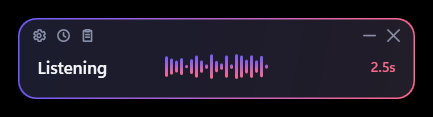
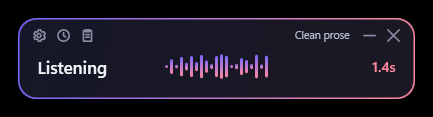
Bring every document up to what the code actually does
A sweep rather than a feature: the docs had drifted again, and one drift was my own fault.

The architecture document's seam table still described a hotkey that only held, a cleaner with no
phrase book, a history that could only be appended to, and six settings pages. Those rows were edited
in an earlier pass whose script aborted on a failed assertion before writing the file, so the edit was
reported as done and never landed. They are correct now, and IFocusProbe - which by then did two quite
different jobs - has a row of its own.

Its roadmap listed the installer, auto-update, auto-start and "remember this replacement" as still to
do. All four shipped. What is actually open is led by the two review findings that are still open and
user-visible, and says why each matters rather than only naming it.

The handoff's state section was a list of what existed in the first week. It now describes the app as
it is - session-scoped pipeline, local-first post-processing, modes, caret-aware delivery, recovery,
history as a correction tool - and leads with the fact that none of it is in an installed copy, which
is the single most useful thing for the next person to know. Its repo map had drifted furthest: half
the Core files it lists did not exist when it was written, and the ones that did are now organised by
folder.

Screenshots regenerated. All four were taken before the rebrand, so the README showed an app with the
[…]

diff --git a/docs/HANDOFF.md b/docs/HANDOFF.md
@@ -7,59 +7,82 @@ feature passes. Read this first; then `README.md` for usage, `docs/ARCHITECTURE.
 
 ## What this is
 
-Push-to-talk dictation for Windows, a Wispr Flow clone. Hold Right Ctrl, speak, release; the cleaned-up
-text is typed into whatever has focus. Everything runs locally. There is no cloud, account, or telemetry.
+**TawkType — you talk, it types.** Local voice typing for Windows, modelled on Wispr Flow. Hold Right
+Ctrl, speak, release; the text is typed into whatever has focus. Speech recognition runs on the
+machine. There is no account and no telemetry, and the only thing that ever leaves the computer is the
+optional Claude rewrite, which is off until someone turns it on and supplies a key.
 
-Owner: Jupitor Studio. Working name was **Murmur**, then **Talk2Me**; it is now **TawkType**, because Talk2Me turned out to be another dictation product. The rename is display-only — see the rename notes below.
+Owner: Jupitor Studio. Home: [tawktype.com](https://tawktype.com). Working name was **Murmur**, then
+**Talk2Me**; it is now **TawkType**, because Talk2Me turned out to be another dictation product. The
+rename is display-only — see "The rename" below for the six identifiers that still say Talk2Me on
+purpose.
 
 ## State of the code
 
-- **Branch `main`, clean tree.** Last release tag `v0.2.9`; several commits past it, so the next pack
-  is overdue.
-- **Builds clean** with `dotnet build`, **326 unit tests pass** with `dotnet test`.
+- **Branch `main`, clean tree.** Last release tag `v0.2.9`, and a long way past it: everything below
+  is in no installed copy. **Cutting a release is the most overdue thing in this repository.**
+- **Builds clean** with `dotnet build`, **326 unit tests pass** with `dotnet test` in about two seconds.
 - **Works end to end on real hardware.** The owner's own mic test: 3.2 s of speech → typed in 215 ms
-  with Parakeet. Overlay, tray, settings, model download, model deletion are all verified in the running
-  app.
-- **LLM cleanup is in**, off by default: `LlmTextCleaner` runs the regex cleaner, then optionally a
-  Claude rewrite under a 2 s timeout, falling back to the regex text on anything that goes wrong. Unit
-  tested; the live path was verified only as far as a rejected key (see "Gotchas" 9).
+  with Parakeet. Overlay, tray, settings, model download and deletion are verified in the running app.
+- **Renamed to TawkType**, display-only — see "The rename" below for the six identifiers that
+  deliberately still say Talk2Me and what each costs if you change one.
+- **The whole pipeline is session-scoped**: a dictation can be cancelled with Esc, cannot be stamped
+  on by a later one, and shutdown drains rather than tearing up mid-write.
+- **Post-processing is local first.** `PhraseBook` applies the user's spellings, replacements and
+  snippets with no model involved, and again after a rewrite so Claude cannot undo them. Four
+  **modes** bundle the post-processing choices and a key cycles them; a mode can only ever *narrow*
+  the permission to use Claude, never grant it.
+- **Delivery knows where it is going.** The focus probe says whether text can land and re-checks at
+  delivery time; `CaretFit` reads the words either side of the caret and fixes the spacing and the
+  first letter's case. Anything unreadable behaves exactly as it did before either existed.
+- **Nothing is lost when delivery fails.** The words are announced before they are typed, so they
+  reach the history either way, and the **dictation box** holds them — editable, copyable, and able to
+  hand the foreground back to the window they were aimed at.
+- **History is a correction tool**, not just a log: search across what was typed and what was heard,
+  edit, re-run cleanup, delete one entry, and save a vocabulary replacement from a mistake.
+- **LLM cleanup is in**, off by default. Unit tested; the live path was verified only as far as a
+  rejected key (see "Gotchas" 9) — **nobody has yet seen a real rewrite**.
 - **The installed build's taskbar icon is fixed** as of 0.2.8, after a long hunt. The answer is in
   "Gotchas" 20, and it is not what anyone would guess.
-- **The review in `docs/REVIEW-2026-09-11.md` is partly addressed**, findings 1–5 and 7 — transcript
-  logging, history retention and deletion, hotkey suppression and parsing, delivery ordering, session
-  lifetime, focus revalidation. That doc carries a status note listing what is left; **finding 6
-  (clipboard restore) and finding 10 (the filler regex eating "um" in German and "ER" in English) are
-  both still open**, and 6 matters more now that multiline results always paste.
-- **Personalisation landed locally**: `PhraseBook` (spellings, replacements, snippets), Esc to cancel,
-  an optional toggle key, optional sounds, and a recording limit.
+- **The review in `docs/REVIEW-2026-09-11.md` is mostly addressed.** Findings 1–5, 7, 8 and part of 11
+  are done. **Finding 6 (clipboard restore) and finding 10 (the filler regex) are still open**, and 6
+  matters more now that multiline results always paste. That doc carries a status note.
+- **`docs/FEATURE-RESEARCH-2026-09-11.md` §1–§7 are built**, except §5's per-application defaults,
+  which the section itself puts later. §8 (first run) and §9 (visible privacy) are untouched.
 
 ## Repo map
+
+The project and namespace names still say Talk2Me. That is deliberate — see "The rename" below.
 
 ```
 Talk2Me.sln
 src/Talk2Me.Core            pipeline state machine, interfaces, settings, regex cleaner, and the pure
-                            reducers that make the awkward parts testable: Hotkey, HotkeyGesture,
-                            Activation, Delivery, PhraseBook, NumberField, WindowPlacement  (no Windows deps)
-src/Talk2Me.Windows         WH_KEYBOARD_LL hook, WaveIn mic capture, SendInput + clipboard injection
+                            reducers that make the awkward parts testable, all free of Windows deps:
+                              Input/     Hotkey, HotkeyGesture, Activation (hold / toggle / Esc / mode)
+                              Text/      PhraseBook, CaretFit, CorrectionGuess, Delivery, BasicTextCleaner
+                              Settings/  DictationMode, VocabularyEdit, VocabularyFormat, NumberField
+                              History/   DictationHistoryStore, HistoryQuery, LastDictation
+                              Pipeline/  DictationEngine, Recovery
+src/Talk2Me.Windows         WH_KEYBOARD_LL hook, WaveIn mic capture, SendInput + clipboard injection,
+                            UiaFocusProbe (can text land here, and what is either side of the caret),
+                            Win32WindowActivator, DPAPI key store, Run-key startup, taskbar identity
 src/Talk2Me.Transcription   ParakeetTranscriber (sherpa-onnx), WhisperTranscriber (Whisper.net),
                             TranscriberRouter, model downloaders, ModelStorage
 src/Talk2Me.Llm             ClaudeLlmClient — the only project that references the Anthropic SDK
 src/Talk2Me.App             WPF tray app (namespace Talk2Me.Desktop): App.xaml has the palette + mark
-                            geometry; Views/ has OverlayWindow, SettingsWindow, HistoryWindow, BrandMark;
+                            geometry; Views/ has OverlayWindow, SettingsWindow, HistoryWindow,
+                            DictationBoxWindow, RememberWindow, TaskbarWindow, HotkeyBox, BrandMark;
                             Themes/ has Light.xaml, Dark.xaml and the templated Controls.xaml;
-                            Services/ has ModelMaintenance, ThemeManager and LegacyMigration;
-                            Logging/ has the file logger
+                            Services/ has ModelMaintenance, ThemeManager, UpdateService, SoundCues,
+                            LegacyMigration; Logging/ has the file logger
 tools/Talk2Me.Bench         transcribes a WAV with one or both engines, prints latency side by side
 tools/Talk2Me.Clean         runs a transcript through the LLM cleanup pass, prints the rewrite + latency
-tools/Talk2Me.Focus         prints what the focus probe makes of whatever window is in front
+tools/Talk2Me.Focus         what the focus probe makes of the front window, and the text around its caret
 tools/Talk2Me.Brand         renders talk2me.ico + logo PNGs from the vector mark (WPF, no external tools)
-tests/Talk2Me.Core.Tests    xUnit, 240 tests: DictationEngine + session lifetime, hotkey parsing and
-                            gesture, activation (hold / toggle / cancel), PhraseBook, VocabularyFormat,
-                            NumberField, Delivery, focus deflection, failed delivery, history store,
-                            BasicTextCleaner, EngineSelection, LlmTextCleaner, CleanupPrompt,
-                            ModelStorage, WindowPlacement, languages, stats, settings cloning
+tests/Talk2Me.Core.Tests    xUnit, 326 tests. One file per behaviour; the names are the specification.
 branding/                   BRAND.md, mark.svg, icon.svg, logo.svg, exports/
-docs/                       ARCHITECTURE.md, HANDOFF.md
+docs/                       ARCHITECTURE.md, HANDOFF.md, the two dated assessments, images/,
+                            tawktype-brand/ (the design package; untracked, see .gitignore)
 ```
 
 ## Run, build, test
@@ -110,7 +133,7 @@ On first run the app moves the old `%LOCALAPPDATA%\Murmur` folder here, so nothi
 | Whisper runtime order CUDA12 → Vulkan → CPU | No CUDA Toolkit installed, so Vulkan is what runs. Installing the toolkit flips to CUDA automatically. |
 | H.NotifyIcon.Wpf pinned to **2.3.2** | 2.4.x dropped net8.0 and silently resolves to the .NET Framework asset, which fails XAML compile. |
 | WaveIn at 16 kHz mono, not WASAPI | The driver resamples for free to exactly what both engines want. Swap for WASAPI only if latency or loopback becomes a need. |
-| Settings is a nav rail + pages, not one form | It had grown past 1400px with the expanders open and was genuinely hard to read. Seven pages (General / Transcription / Activation / Appearance / Vocabulary / AI cleanup / History) modelled on WhisperTyping, which the owner asked for by screenshot. |
+| Settings is a nav rail + pages, not one form | It had grown past 1400px with the expanders open and was genuinely hard to read. Eight pages (General / Transcription / Activation / Modes / Appearance / Vocabulary / AI cleanup / History) modelled on WhisperTyping, which the owner asked for by screenshot. |
 | Light default with a dark toggle, pill always dark | The owner picked light with a toggle. The pill is the exception on purpose: it floats over other applications, so it has to read against *their* content, not ours. Its brushes are `Overlay.*` in App.xaml and never swap. |
 | Controls are fully templated | WPF's stock ComboBox/CheckBox/Button chrome comes from system colours and looks wrong in dark. Templating them is the only way both themes are right. |
 | The pill rests on screen instead of hiding | It is the only feedback the user has, and it is useless if it is gone when they glance at it. Resting dimmed keeps it available without being loud. `Overlay.AlwaysVisible = false` restores hide-on-idle. |
@@ -239,7 +262,7 @@ px frames, and the mark drops its text cursor below 24 px rather than shrinking 
     sets `Overlay.AlwaysVisible = false` — it stops resting on screen but still appears while
     dictating, and is persisted. Minimise (`─`) sets `OverlayViewModel.IsHidden` — gone entirely,
     including during dictation, and deliberately *not* persisted, so a restart brings it back. While
-    minimised the only ways back are the tray icon (left click, or "Show status bar" on the menu) and
+    minimised the only ways back are the tray icon (left click, or "Show" on the menu) and
     turning Appearance → "Keep the pill on screen" from off to on.
 19. **Never let the installer's packId be `Talk2Me`.** Velopack installs to `%LOCALAPPDATA%\<packId>`
     and *clears that folder first*. Builds before the installer kept user data in
@@ -375,27 +398,31 @@ px frames, and the mark drops its text cursor below 24 px rather than shrinking 
 
 ## Roadmap, in the order I would do it
 
-1. **Close review findings 6 and 10.** Finding 6 is the clipboard: the restore races the paste, and only
-   text is put back, so an image or formatted content on the clipboard is destroyed by a dictation. That
-   got more likely, not less, when multiline results started always pasting. Finding 10 is the filler
-   regex — it deletes German "um" and English "ER", so *"The ER is open"* becomes *"The is open"*. Both
-   are small, both are user-visible, and both are already written up with reproductions.
-2. **Prove the rewrite on real dictation** and tune the prompt in `CleanupPrompt` against it. Still true:
-   nobody has seen a successful call (gotcha 9).
-3. **Cut a release.** The latest is `v0.2.9`; everything since — the review fixes, the phrase book,
-   cancel and toggle, the settings validation — is in no installed copy. Nothing here is in a user's
-   hands yet.
-4. **Bring Remember… to the dictation box** as well. It is in the history window now; the box is the
-   other place the wrong words are already on screen.
-5. **Per-app modes**: read the foreground window's process name at release time and pick a mode from
-   it. `FocusTarget.ProcessName` is already captured at key-down, so this is a map from process name
-   to mode name and nothing else. Feature research §5 calls it out as the "later" half of modes.
-6. **Streaming partials** while the key is held (Parakeet is a transducer; it suits this).
-7. **Overlay polish**: replace the level bar with an animated waveform; onboarding window on first run.
-8. **Command mode**: hold a second key, speak an instruction, replace the selected text.
-9. **Local LLM backend** behind `ILlmClient`, so the rewrite works offline and the "nothing leaves this
-   machine" promise holds with cleanup switched on.
-10. **Auto-start with Windows** and crash recovery. The installer and the single-instance guard are done.
+1. **Cut a release.** `v0.2.9` is the latest, and everything since — the review fixes, the phrase book,
+   modes, caret fitting, the dictation box, history corrections, and the whole rebrand — is in no
+   installed copy. Nothing here is in a user's hands. Pack it, install it *yourself* (gotcha 28: an
+   agent cannot), and check an upgrade from an existing install still finds its settings and models.
+2. **Close review findings 6 and 10.** Finding 6 is the clipboard: the restore races the paste and only
+   text is put back, so an image or formatted content is destroyed by a dictation — more likely now
+   that multiline results always paste. Finding 10 is the filler regex: it still removes German "um"
+   and a lowercase English "er". All-capitals words are protected, which is why *"The ER is open"*
+   survives, but the lowercase cases are open. Both are small, user-visible, and already written up
+   with reproductions.
+3. **Prove the rewrite on real dictation** and tune `CleanupPrompt` against it. Still true: nobody has
+   seen a successful call (gotcha 9), so every judgement about rewrite quality is currently a guess.
+4. **Finish the brand assets**: high-contrast tray variants, outlined SVG wordmarks, and a licence and
+   trademark check on the name. The domain is bought; availability was never established.
+5. **Bring Remember… to the dictation box.** It is in the history window; the box is the other place
+   the wrong words are already on screen.
+6. **Per-app modes**: read the foreground window's process name at release time and pick a mode from
+   it. `FocusTarget.ProcessName` is already captured at key-down, so this is a map and a settings page.
+   Feature research §5 calls it the "later" half of modes.
+7. **First run** (§8) and **visible privacy** (§9): an onboarding flow that ends in a successful
+   dictation, and a panel that shows what is actually kept rather than what the settings imply.
+8. **Streaming partials** while the key is held. Parakeet is a transducer; it suits this.
+9. **Local `ILlmClient`** so the rewrite works offline and "nothing leaves this machine" holds with
+   cleanup switched on.
+10. **Command mode**: hold a second key, speak an instruction, replace the selected text.
 
 ## Session log (what was actually done, in order)
 

diff --git a/docs/ARCHITECTURE.md b/docs/ARCHITECTURE.md
@@ -65,15 +65,16 @@ Every stage is an interface so each can be swapped independently:
 
 | Interface | Today | Later |
 |---|---|---|
-| `IPushToTalkHotkey` | keyboard hook | mouse side-button, foot pedal, double-tap toggle mode |
+| `IPushToTalkHotkey` | keyboard hook: hold, optional toggle, Esc to cancel, a key to cycle modes | mouse side-button, foot pedal |
 | `IAudioCapture` | WaveIn 16 kHz | WASAPI shared-mode with own resampler, VAD auto-stop |
 | `ITranscriber` | router → Parakeet (sherpa-onnx) or Whisper.net | streaming partials while the key is held, Parakeet on GPU via a CUDA sherpa-onnx build |
-| `ITextCleaner` | regex fillers, then an optional Claude rewrite | tone chosen per foreground app; a local model behind the same `ILlmClient` |
+| `ITextCleaner` | regex fillers, the local phrase book, then an optional Claude rewrite | tone chosen per foreground app; a local model behind the same `ILlmClient` |
 | `ILlmClient` | `ClaudeLlmClient` (Anthropic SDK) | llama.cpp / ONNX for an offline rewrite |
-| `ITextInjector` | SendInput / clipboard | UI Automation `TextPattern` for exact caret insertion |
-| `IDictationHistory` | JSONL append under the profile | search, pinning, re-inject a past dictation |
+| `ITextInjector` | SendInput / clipboard, fitted to the caret | UI Automation `TextPattern` insertion rather than synthetic keys |
+| `IDictationHistory` | JSONL under the profile: append, search, edit, delete | pinning, re-inject a past dictation |
+| `IFocusProbe` | UI Automation: can text land here, and what is either side of the caret | a cheaper native path for the common controls |
 | `IWindowActivator` | `SetForegroundWindow` + settle poll | nothing planned; it exists for the dictation box |
-| Settings UI | nav rail + six pages, themed | per-page validation, an onboarding flow on first run |
+| Settings UI | nav rail + eight pages, themed, per-field validation | an onboarding flow on first run |
 
 ## LLM cleanup
 
@@ -236,7 +237,7 @@ Two properties make it safe:
   and refusing to type into a field that would have worked is a worse bug than the one being fixed. The
   "definitely not text" control list is deliberately short for the same reason.
 
-When it does stop, the text goes to the clipboard through `IClipboard` and the bar says *Copied instead*
+When it does stop, the text goes to the clipboard through `IClipboard` and the bar says *Copied — ready to paste*
 with the reason. Nothing is lost, and the history records it with `CopiedNotTyped`.
 
 `tools/Talk2Me.Focus` prints the verdict once a second so the behaviour can be checked against real
@@ -478,31 +479,53 @@ trade for recoverability, and `History.Enabled` turns it off.
   `Dispatcher.BeginInvoke`. `OverlayViewModel` also reacts to `ISettingsProvider.Changed`, which only
   ever fires from a `SettingsStore.Save` on this thread.
 - **WaveIn callback thread**: appends samples under a lock, raises level events.
-- **Thread pool**: transcription, cleanup, injection (`Task.Run` from the release handler).
+- **Thread pool**: transcription, cleanup, injection (`Task.Run` from the release handler), the focus
+  probe at key-down, and the caret read just before delivery. Both accessibility calls are bounded —
+  400 ms and 250 ms — and answer "do not know" rather than holding anything up.
 - Whisper's processor is not thread-safe; `WhisperTranscriber` serialises calls with a semaphore.
+- `DictationEngine` raises its state changes **outside** its lock. Raising them inside deadlocked
+  against handlers that called back in.
 
 ## Settings
 
-`%LOCALAPPDATA%\Jupitor Studio\Talk2Me\settings.json`, loaded once at startup by `SettingsStore` and re-read by consumers
-through `ISettingsProvider.Current`, so a save takes effect without a restart: the hotkey re-resolves on
-`Changed`, the transcriber reloads when model or language differ from what is loaded, audio device is
-resolved at each `Start()`.
+`%LOCALAPPDATA%\Jupitor Studio\Talk2Me\settings.json` — under the old name on purpose; see the rename
+notes in `docs/HANDOFF.md`. Loaded once at startup by `SettingsStore` and re-read by consumers through
+`ISettingsProvider.Current`, so a save takes effect without a restart: the hotkey re-resolves on
+`Changed`, the transcriber reloads when model or language differ from what is loaded, and the audio
+device is resolved at each `Start()`.
+
+`SettingsStore.Migrate` brings older files forward, and the rule it follows is that a user's answer
+survives a reorganisation. The vocabulary moved out from under AI cleanup when it started applying
+locally; filler removal, the trailing space and caret fitting moved into modes when modes arrived, and
+each of the three hands its old value to every mode rather than being lost. `ISettingsProvider` is
+read-only by design — saving belongs to the app layer, which is why the mode-cycling key is wired in
+`App` rather than in the engine.
 
 ## Roadmap
 
-1. ~~**LLM cleanup** behind `ITextCleaner`~~ — done, Claude-backed and off by default. Still open: a
-   local backend behind `ILlmClient` for an offline rewrite, and streaming the rewrite so the first
-   words are typed before the last ones arrive.
-2. **Per-app styles**: detect the foreground window's process name, pick a tone preset (chat vs email vs
-   code editor).
-3. ~~**Personal dictionary**~~ — done locally: spellings, replacements and snippets apply with or
-   without a model (`PhraseBook`), and the whole vocabulary imports and exports. Still open: seed
-   Whisper's `initial_prompt` with it, and a "remember this replacement" action in the history window
-   so a correction can be saved from the dictation that needed it.
-4. **Command mode**: select text, hold a second key, speak an instruction, replace selection.
-5. **Streaming**: transcribe in 1-second windows while the key is held so text appears as you speak.
-6. **Branding, continued**: identity, icon, palette and overlay restyle are done (see
-   `branding/BRAND.md`). Still to do: overlay waveform animation, onboarding window, installer (MSIX or
-   Velopack), auto-update.
-7. **Auto-start** with Windows, crash recovery. The single-instance guard is in (a `Local\` mutex in
-   `App.OnStartup`).
+Done since this document was first written, and kept here only because the sections above describe how
+rather than whether: LLM cleanup, the personal dictionary, modes, caret-aware insertion, the dictation
+box, history as a correction tool, the Velopack installer with auto-update, auto-start, and the
+single-instance guard.
+
+Open, roughly in the order worth doing:
+
+1. **Clipboard hardening.** The restore races the paste, and only text is put back — an image or
+   formatted content on the clipboard does not survive a dictation. More results go through the
+   clipboard now that multiline text always pastes, so this is the most user-visible thing left.
+   (`docs/REVIEW-2026-09-11.md`, finding 6.)
+2. **The filler regex still eats real words.** German "um" and a lowercase English "er" are removed as
+   disfluencies. All-capitals words are safe now, which is why *"The ER is open"* works, but nothing
+   protects the lowercase cases. (Same review, finding 10.)
+3. **Per-app modes**: read the foreground window's process name at release time and pick a mode from
+   it. `FocusTarget.ProcessName` is already captured at key-down, so this is a map and a settings page.
+4. **A local `ILlmClient`** (llama.cpp or ONNX), so the rewrite works offline and "nothing leaves this
+   machine" holds with cleanup switched on.
+5. **Streaming**: transcribe in one-second windows while the key is held, so text appears as it is
+   spoken. Parakeet is a transducer, which suits this.
+6. **Command mode**: select text, hold a second key, speak an instruction, replace the selection.
+7. **First run**: an onboarding flow that ends in a successful dictation, and a visible privacy panel.
+   (`docs/FEATURE-RESEARCH-2026-09-11.md`, §8 and §9.)
+8. **Overlay polish**: an animated waveform in place of the level meter, respecting reduced motion.
+9. **Seed the recogniser with the vocabulary** — Whisper's `initial_prompt` takes a word list, so the
+   names the user has taught TawkType could be got right before cleanup rather than after.

diff --git a/README.md b/README.md
@@ -35,7 +35,7 @@ where your cursor is — in your editor, your browser, a chat box, anywhere.
 - **It knows where it can type.** Before typing it checks whether the focused element actually accepts
   text, and whether the target window is running as administrator — synthetic keystrokes to an elevated
   window are discarded by Windows without any error. If it can't type, the text goes to your clipboard
-  and the bar says *Copied instead*.
+  and the bar says *Copied — ready to paste*.
 - **Nothing is lost.** Every dictation is kept locally, so one that went into the wrong window is a
   click away. Turn the log off and it means it — nothing keeps a second copy of your words.
 - **History that corrects things.** Search what you have said, edit a past dictation, run cleanup over
@@ -50,9 +50,13 @@ where your cursor is — in your editor, your browser, a chat box, anywhere.
 - **Your own words.** Names TawkType should spell your way, corrections for what it keeps mishearing, and
   saved text you insert by saying *"insert"* and a trigger. All of it works on this machine, with or
   without a Claude key, and the whole vocabulary imports and exports as a file of its own.
+- **Sounds and a safety net.** Optional start, finish and failure sounds, off by default and using
+  your own Windows scheme. A recording limit — five minutes by default — *finishes* a runaway
+  dictation rather than throwing it away, so a key left under a book costs you nothing.
 - **Optional AI cleanup.** With a Claude API key, dictations are rewritten before typing: spoken
   corrections applied ("no, make that Tuesday"), lists formatted. Your vocabulary is re-applied
-  afterwards, so a rewrite can never undo a correction you wrote down.
+  afterwards, so a rewrite can never undo a correction you wrote down. The bar says *Rewriting with
+  Claude* while it happens, because that is the one step that leaves your machine.
 
 ## Install it
 
@@ -105,8 +109,10 @@ Then hold Right Ctrl and talk.
 <img src="docs/images/bar-resting.png" width="433" alt="The status bar at rest">
 
 It sits on screen, dimmed, showing your hotkey; the moment you speak it comes back to full strength with
-a live level meter and a timer. Its toolbar has Settings, History, Copy last dictation, minimise, and
-hide-between-dictations. Drag it anywhere — it remembers where, per monitor.
+a live level meter and a timer. Its toolbar has Settings, History and Copy last dictation, plus a
+recovery button that appears only when a dictation failed to land. The active mode's name sits on the
+right — a mode you cannot see is a mode you will be surprised by. Drag the bar anywhere; it remembers
+where, per monitor.
 
 **It never takes focus.** The window is `WS_EX_NOACTIVATE`, so Windows delivers your clicks but never
 activates it. Press a button or drag it and your caret stays exactly where it was.
